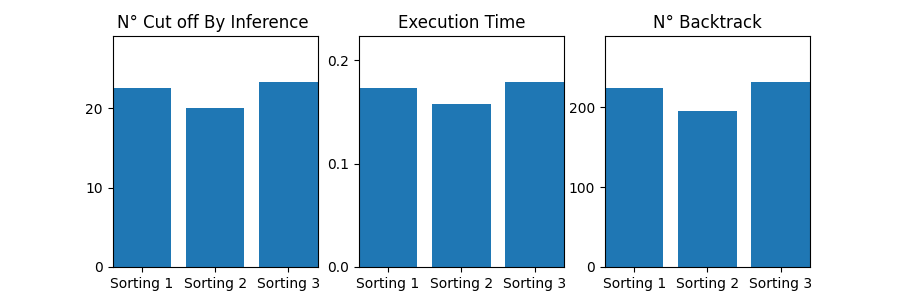
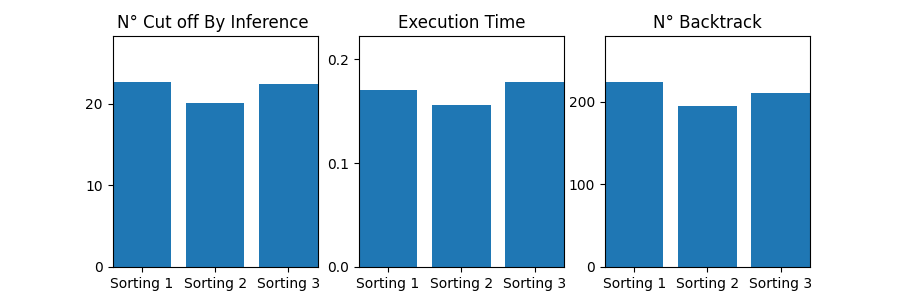
version 2.6 - last fixes (I hope)

diff --git a/Main.py b/Main.py
@@ -38,7 +38,7 @@ def GenerateRandomSudoku():
     :return: matrice 9x9
     """
     solvedSudoku = CreateRandomSolvedSudoku()
-    nCells = random.randint(55, 65)
+    nCells = random.randint(45, 55)
     return DeleteCell(solvedSudoku, nCells)
 
 
@@ -332,13 +332,30 @@ class Sudoku:
 
     def SortDomain3(self, var):
         """
-          ordina la lista in maniera casuale
+          ordina in base al Less Costraining Value
           :param var: indici del dominio da assegnare
           :return: lista ordinata del domino
         """
-        a = copy.deepcopy(self.domains[var[0]][var[1]])
-        random.shuffle(a)
-        return a
+        score = [1 for _ in range(0, 10)]
+        queue = [[var[0], i] for i in range(0, 9)]
+        queue += [[i, var[1]] for i in range(0, 9)]
+        x = var[0] - var[0] % 3
+        y = var[1] - var[1] % 3
+        queue += [[i, j] for i, j in itertools.product(range(x, x + 3), range(y, y + 3)) if i != var[0] and j != var[1]]
+        queue.remove(var)
+        queue.remove(var)
+        while queue:
+            index = queue.pop()
+            for k in range(1, 10):
+                score[k] *= len(self.domains[index[0]][index[1]]) - 1 if k in self.domains[index[0]][index[1]] else len(
+                    self.domains[index[0]][index[1]])
+        finalOrder = []
+        for i in self.domains[var[0]][var[1]]:
+            finalOrder.append(score[i])
+        zipped_lists = zip(finalOrder, self.domains[var[0]][var[1]])
+        sorted_zipped_lists = sorted(zipped_lists, reverse=True)
+        zipped_lists = [element for _, element in sorted_zipped_lists]
+        return zipped_lists
 
     def FowardChaining(self, var):
         """
@@ -418,8 +435,9 @@ class Sudoku:
 
 
 def main():
-    Test(2, 20)
-
+    Test(1, 30)
 
 if __name__ == "__main__":
     main()
+
+
